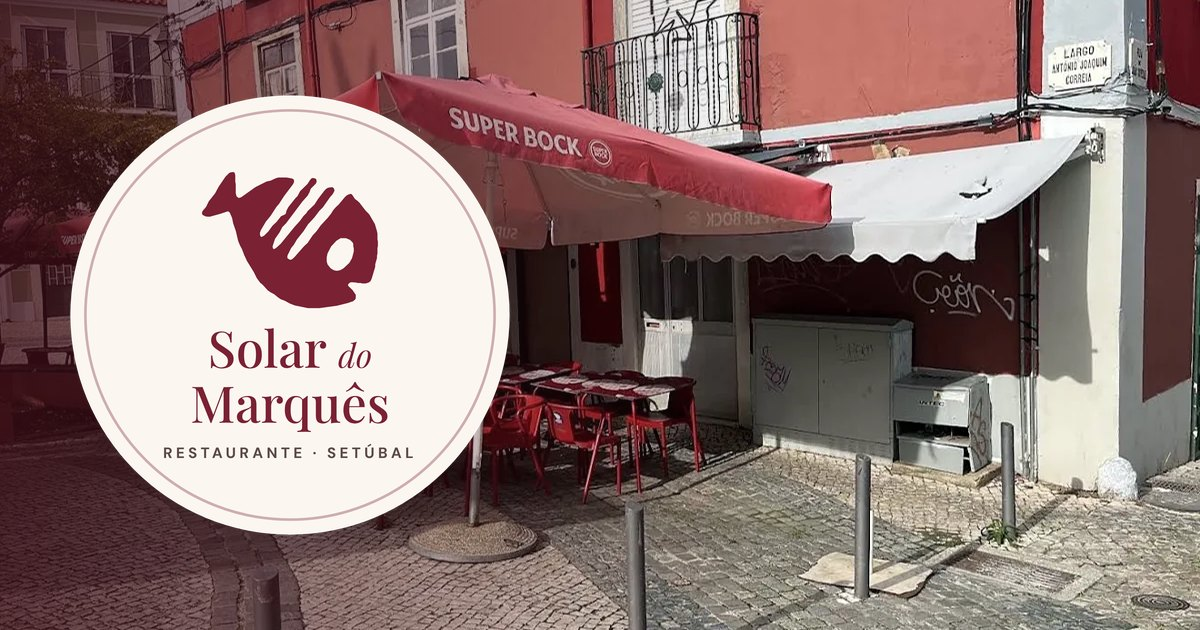
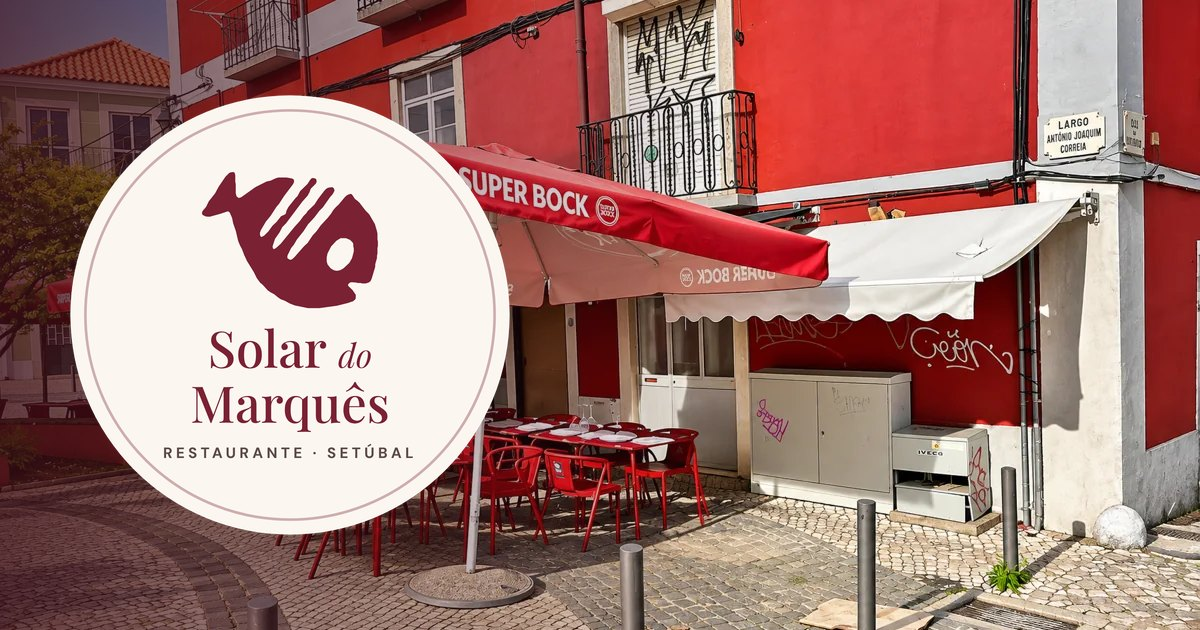
Solar do Marquês: 5 fotos novas do espaço (enviadas pelo João), hero e OG
Claude-Session: https://claude.ai/code/session_01828dregGEyjS5WcxD4v9YG

diff --git a/index.html b/index.html
@@ -20,8 +20,8 @@
 <link rel="apple-touch-icon" href="apple-touch-icon.png">
 <link rel="preload" href="assets/fonts/playfair-display-latin-500-normal.woff2" as="font" type="font/woff2" crossorigin>
 <link rel="preload" href="assets/fonts/dm-sans-latin-400-normal.woff2" as="font" type="font/woff2" crossorigin>
-<link rel="preload" href="assets/img/espaco-esplanada-1200.webp" as="image" media="(min-width: 641px)">
-<link rel="preload" href="assets/img/espaco-esplanada-640.webp" as="image" media="(max-width: 640px)">
+<link rel="preload" href="assets/img/espaco-esplanada-v2-1200.webp" as="image" media="(min-width: 641px)">
+<link rel="preload" href="assets/img/espaco-esplanada-v2-640.webp" as="image" media="(max-width: 640px)">
 <link rel="preconnect" href="https://dnwijjgefcxurdffabyq.supabase.co" crossorigin>
 <link rel="stylesheet" href="styles.css">
 </head>
@@ -36,8 +36,8 @@
 <main id="topo">
   <section class="hero" id="hero">
     <picture class="hero-bg">
-      <source media="(max-width: 640px)" srcset="assets/img/espaco-esplanada-640.webp">
-      <img src="assets/img/espaco-esplanada-1200.webp" alt="" fetchpriority="high">
+      <source media="(max-width: 640px)" srcset="assets/img/espaco-esplanada-v2-640.webp">
+      <img src="assets/img/espaco-esplanada-v2-1200.webp" alt="" fetchpriority="high">
     </picture>
     <div class="hero-in">
       <img class="hero-logo" src="assets/img/logo-400.webp" srcset="assets/img/logo-400.webp 1x, assets/img/logo-600.webp 2x" alt="Solar do Marquês" width="200" height="200">

diff --git a/config.js b/config.js
@@ -135,12 +135,13 @@ window.METRIKA_CONFIG = {
   "bolt": ""
  },
  "fotos": {
-  "hero": "espaco-esplanada",
+  "hero": "espaco-esplanada-v2",
   "espaco": [
-   "espaco-esplanada",
-   "espaco-sala-logotipo",
-   "espaco-sala",
-   "espaco-balcao"
+   "espaco-esplanada-v2",
+   "espaco-sala-logotipo-v2",
+   "espaco-balcao-v2",
+   "espaco-sala-v2",
+   "espaco-sala-contemporanea-v2"
   ],
   "comida": [
    "comida-sardinhas",

diff --git a/RELATORIO-AUDITORIA.md b/RELATORIO-AUDITORIA.md
@@ -1,0 +1,35 @@
+# Solar do Marquês · Auditoria MÉTRIKA Business · 09/11/2026
+
+**Estado: APROVADO COM RESERVAS · nota interna 8,5/10 · DEMO + noindex**
+Publicado: https://solar-do-marques-metrika.vercel.app (Vercel metrik, projeto `solar-do-marques-setubal`, dpl_9kXJrtDWCTXZce3r54AbiAzKMr7M, ramo `solar-do-marques-setubal` commit 1f10fad).
+
+## Estado inicial do ZIP recebido: BLOQUEADO (4/10)
+- P0 Sem Business real: painel em localStorage, sem login, RLS nem publicação.
+- P0 Fotos geradas/alteradas por IA: sala-logotipo, balcão e esplanada recriadas; pratos 01/03/04/05 regenerados em fundo branco; **06-camarão era outro prato** (original: camarão em barro; site: camarão com batata e grelos).
+- P0 Ementa sem preços (todos null) e só PT; sem aviso legal (couvert, IVA, 14 alergénios).
+- P1 Logótipo = recorte desfocado (texto ilegível). Sem OG/JSON-LD/canonical/sitemap/robots. «Avaliar Google» substituído por reserva.
+- P2 Motor diferente do aprovado (não reutilizava `idpro_*`).
+
+## O que foi feito
+- Reconstruído sobre o motor aprovado (Solar Beirão / O Tavira): ID + Business no mesmo link, 8 línguas, aviso legal, alergénios validados pelo dono, tradução automática dos pratos novos.
+- Ementa: 60 artigos em 6 cartões, transcrita das 8 fotos da carta física, preços da carta (por confirmar), kg e doses separados, linguado sem preço.
+- Fotos: 4 de espaço + 8 de comida a partir dos ORIGINAIS, tratamento conservador sem IA (níveis, cor, nitidez); IMG_1476 (clientes identificáveis) fora; badge do Google cortado.
+- Logótipo provisório: símbolo do peixe vetorizado da parede + tipografia.
+- Reservas: só horas em que a casa está aberta (terça sem horas; 11:00–15:00 / 19:00–23:00).
+- Business: slug `solar-do-marques-setubal` criado (bcrypt), password inicial entregue ao João.
+- Correção no motor do painel: erro `replaceWith` ao mudar preço e tocar «Esgotado» logo a seguir.
+- CLS: estado aberto/fechado e subtítulo reservam espaço.
+- Pacote de impressão (marca PROVA até confirmar preços): ementa A4 (4 págs), cartão 85×55, QR porta A4, balcão A5.
+
+## Testes (com evidência)
+- Playwright 375/390/414/430: 40/40 (sem scroll horizontal, 6 ações, toques ≥44 px, sem IDs duplicados, alt, 0 erros, 0 404).
+- E2E: 36/36 (8 línguas, 60 pratos, aviso legal, horas de reserva por dia, estado aberto/fechado em 5 horas simuladas incl. meia-noite, Business: password errada/certa, publicar Hoje, preço, esgotado, público PT/EN, refresh, 2.ª entrada, sair). Backend simulado.
+- Servidor real (SQL como anon): login errado/certo, password de outro slug recusada, gravação, conflito de rev, isolamento (Tavira sem dados do Solar), token falso, bloqueio após 8 falhas, RLS 4/4, 0 privilégios anon. Tudo em transação revertida: 0 sessões, 0 tentativas, 0 histórico.
+- Lighthouse mobile (local): ID 86/100/100/69* · ementa 96/100/100/69* (*SEO baixo só por noindex intencional).
+- QR: 12/12 lidos a 300 dpi com o endereço final.
+- Publicado: vcf, pro-config 200; ferramentas/ 404 (fora do deploy); painel noindex.
+
+## Não feito / limites
+- Teste no iPhone real e login no domínio publicado pelo browser (rede da sessão bloqueia supabase.co).
+- Tradução automática real (simulada); depende do segredo ANTHROPIC_API_KEY no Supabase.
+- CLS 0,16 no Lighthouse em rede lenta (troca de fonte/hero); local 0,02.
